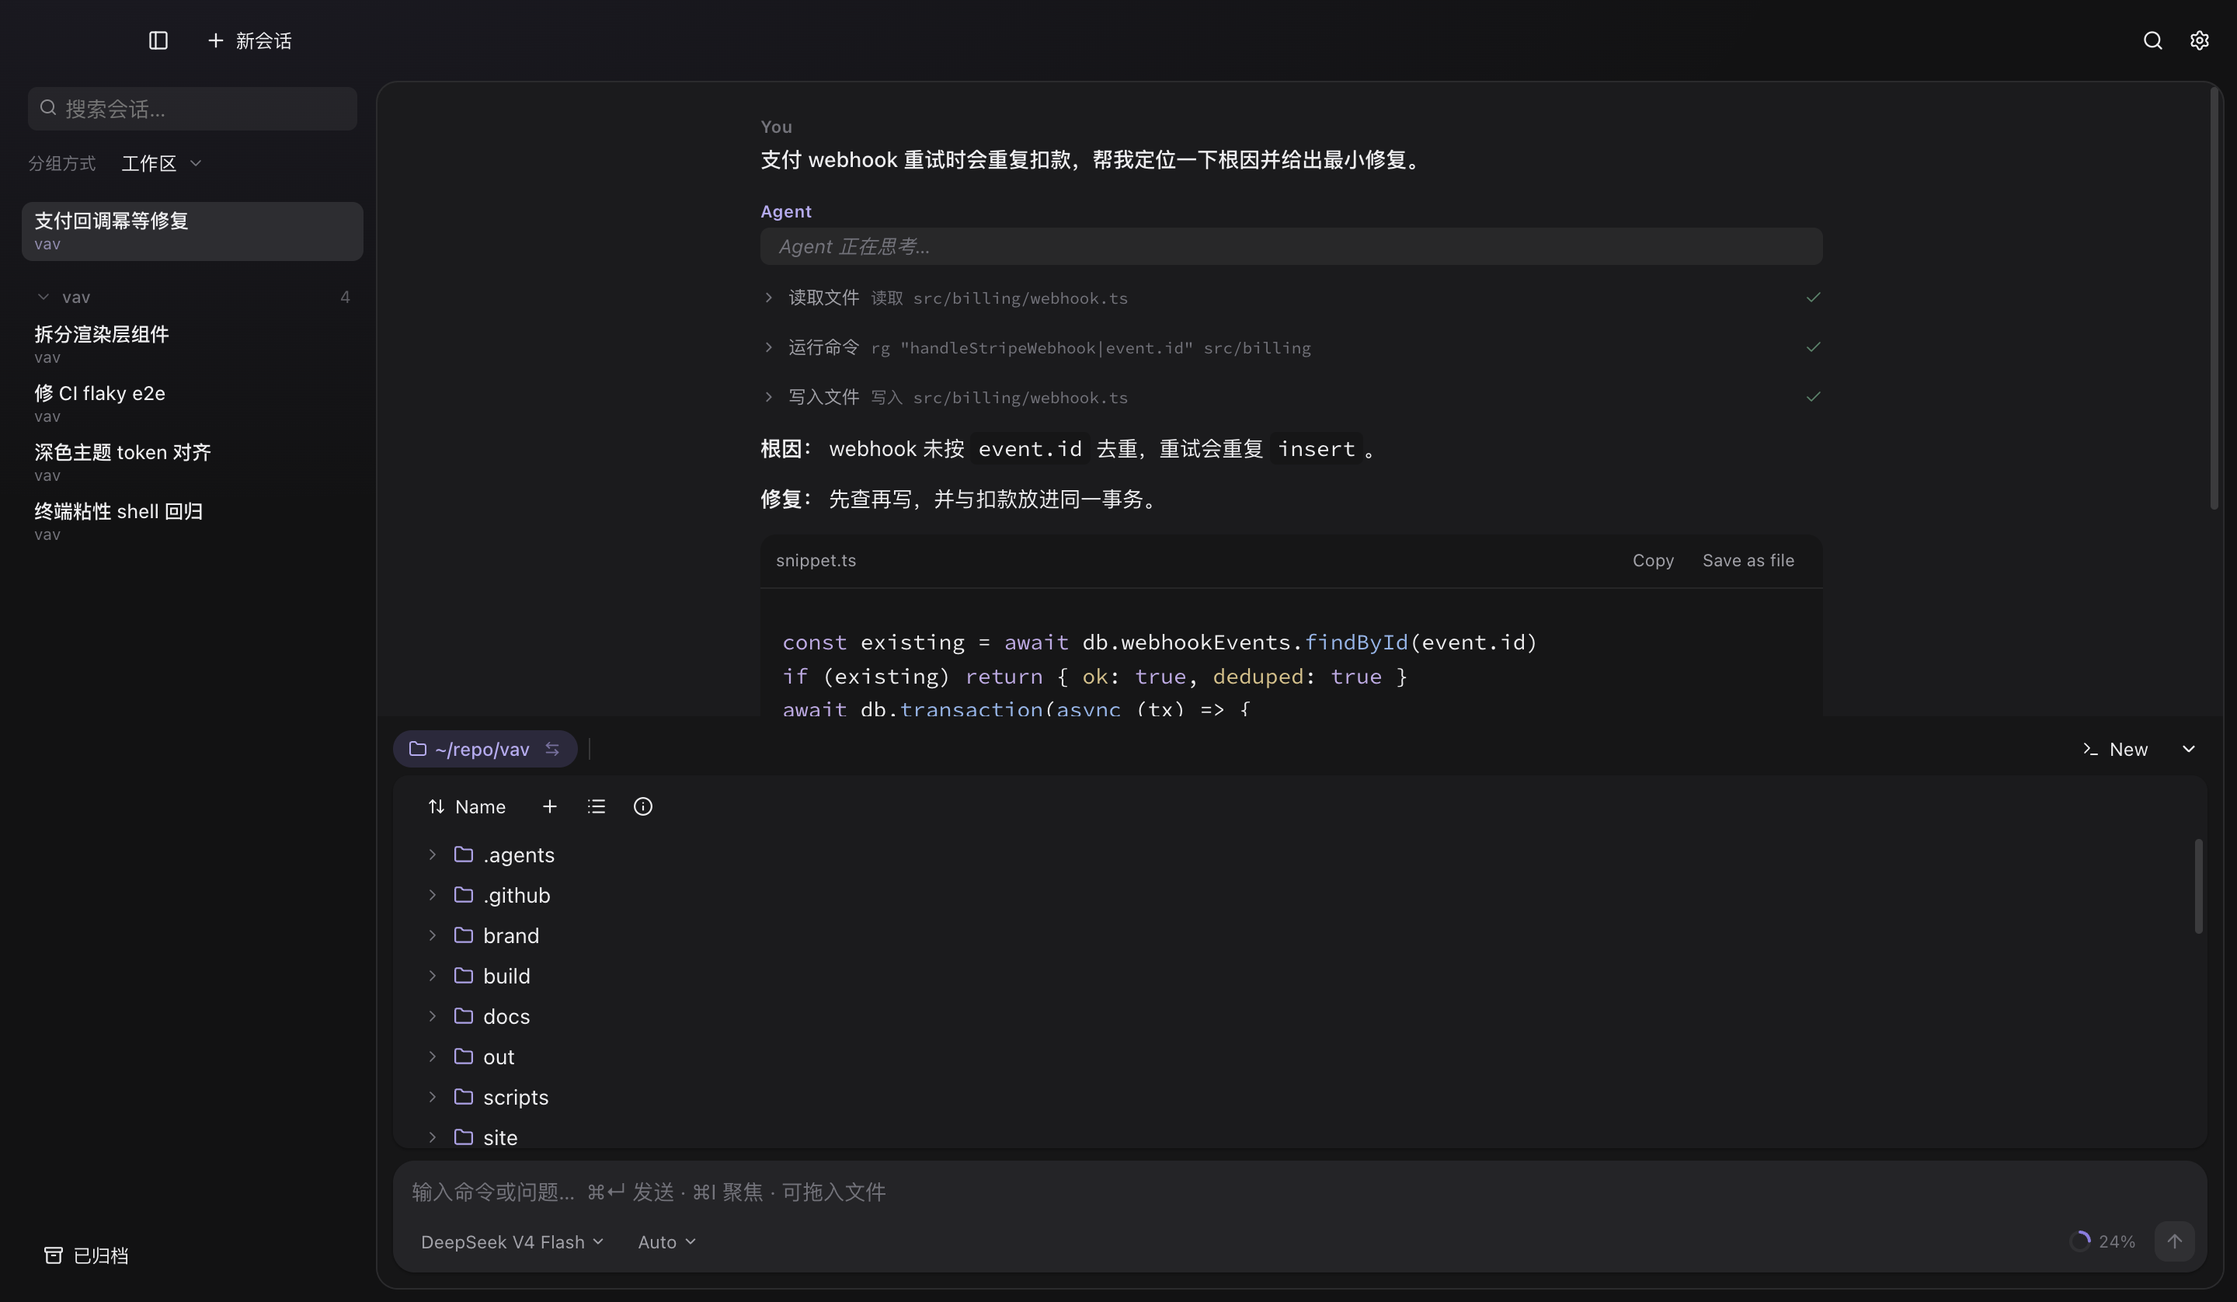
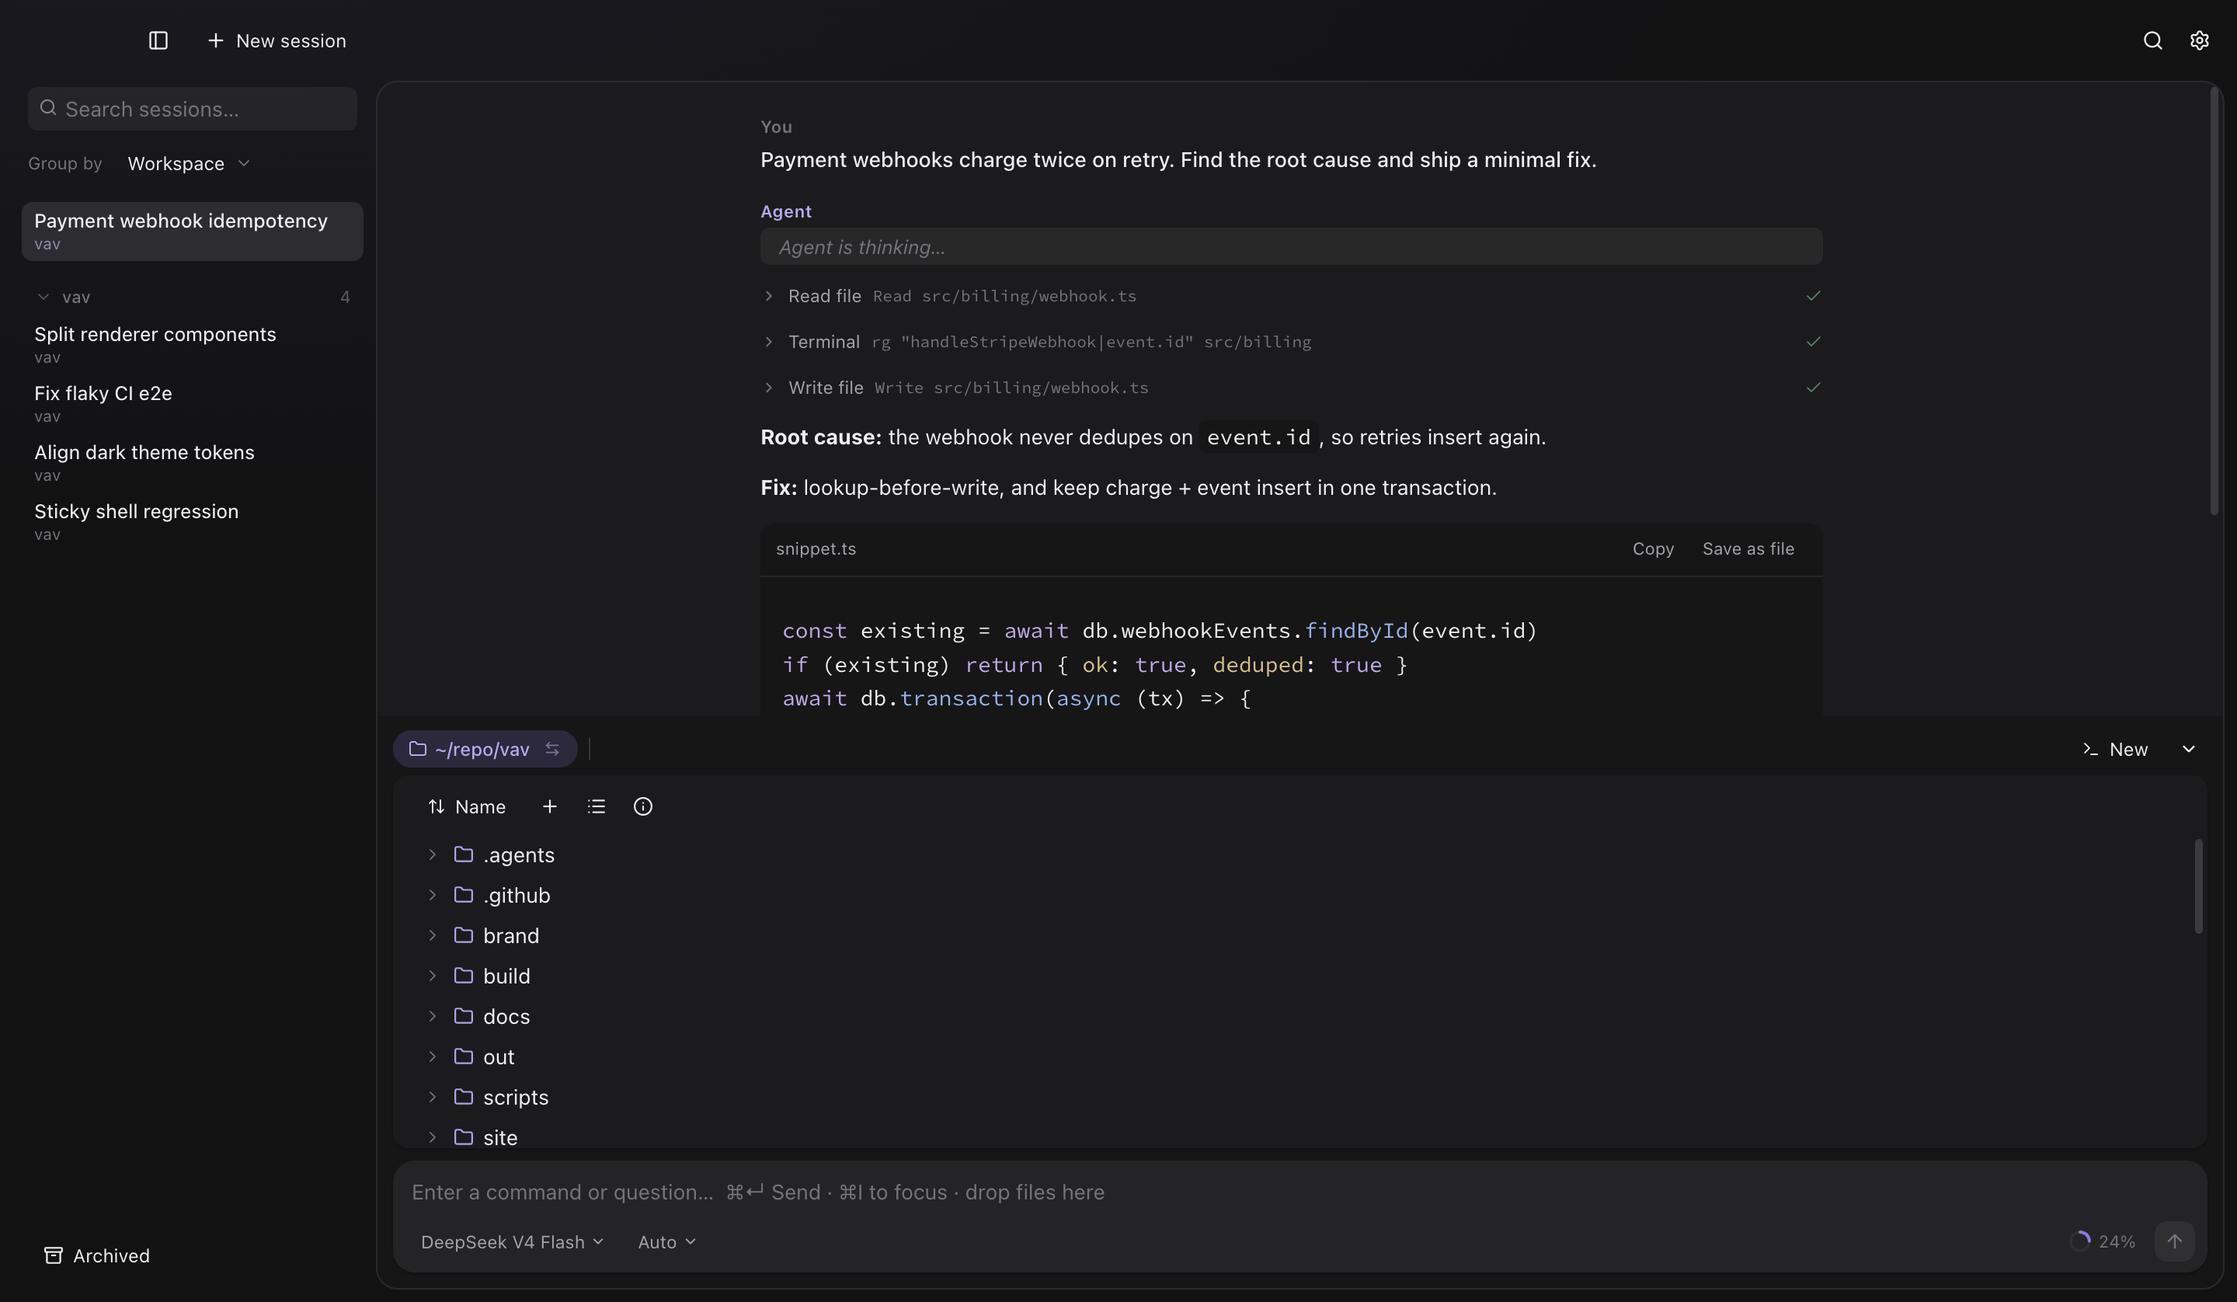
Make the marketing site bilingual and use an English product shot.
Seed the demo session in English, localize tool card labels for locale,
and add an EN/中文 toggle on the GitHub Pages landing page.

diff --git a/site/index.html b/site/index.html
@@ -1,17 +1,17 @@
 <!doctype html>
-<html lang="zh-CN">
+<html lang="en">
   <head>
     <meta charset="utf-8" />
     <meta name="viewport" content="width=device-width, initial-scale=1" />
-    <title>vav — 本机 AI 编程代理工作台</title>
+    <title>vav — local AI coding agent workstation</title>
     <meta
       name="description"
-      content="对话、文件树、真实终端，一个窗口。Agent 在你的项目里动手，数据留在本机。"
+      content="Chat, file tree, and a real terminal in one window. Watch the agent work in your project — data stays on your machine."
     />
     <meta property="og:title" content="vav" />
     <meta
       property="og:description"
-      content="本机 AI 编程代理工作台。看着 Agent 在你的项目里动手。"
+      content="Local AI coding agent workstation. Watch the agent work in your project."
     />
     <meta property="og:image" content="assets/screenshot.png" />
     <meta property="og:type" content="website" />
@@ -27,8 +27,12 @@
   <body>
     <header class="top">
       <nav class="nav">
-        <a href="#download">下载</a>
+        <a href="#download" data-i18n="nav.download">Download</a>
         <a href="https://github.com/21stware/vav">GitHub</a>
+        <div class="lang" role="group" aria-label="Language">
+          <button type="button" class="lang-btn" data-lang="en" aria-pressed="true">EN</button>
+          <button type="button" class="lang-btn" data-lang="zh" aria-pressed="false">中文</button>
+        </div>
       </nav>
     </header>
 
@@ -50,51 +54,71 @@
             <img class="brand-glyph" src="assets/wordmark-dark.png" alt="" width="48" height="48" />
             <span class="brand-name">vav</span>
           </p>
-          <h1 class="hero-title reveal delay-1">看着 Agent 在你的项目里动手</h1>
-          <p class="hero-lead reveal delay-2">
-            对话、文件树、真实终端，一个窗口。数据留在本机——除了发往你自己配置的模型接口。
+          <h1 class="hero-title reveal delay-1" data-i18n="hero.title">
+            Watch the agent work in your project
+          </h1>
+          <p class="hero-lead reveal delay-2" data-i18n="hero.lead">
+            Chat, file tree, and a real terminal — one window. Data stays on your machine, except
+            calls to the model endpoint you configure.
           </p>
           <div class="hero-cta reveal delay-3">
-            <a class="btn primary" href="#download">下载</a>
-            <a class="btn ghost" href="https://github.com/21stware/vav">源码</a>
+            <a class="btn primary" href="#download" data-i18n="hero.ctaDownload">Download</a>
+            <a class="btn ghost" href="https://github.com/21stware/vav" data-i18n="hero.ctaSource"
+              >Source</a
+            >
           </div>
         </div>
       </section>
 
       <section class="band" id="product">
-        <h2 class="band-title reveal">一个窗口，三件事</h2>
-        <p class="band-lead reveal delay-1">
-          Agent 不是在描述它做了什么——你在右边直接看着它 <code>cd</code>、跑测试、写文件。
+        <h2 class="band-title reveal" data-i18n="product.title">One window, three surfaces</h2>
+        <p class="band-lead reveal delay-1" data-i18n-html="product.lead">
+          The agent isn’t narrating what it did — you watch it <code>cd</code>, run tests, and write
+          files on the right.
         </p>
         <ul class="pillars">
           <li class="pillar reveal">
-            <span class="pillar-label">对话</span>
-            <p>流式回合、工具卡片、分支重试，上下文用量一目了然。</p>
+            <span class="pillar-label" data-i18n="product.chatLabel">Chat</span>
+            <p data-i18n="product.chatBody">
+              Streaming turns, tool cards, branch retries, and clear context usage.
+            </p>
           </li>
           <li class="pillar reveal delay-1">
-            <span class="pillar-label">文件</span>
-            <p>按需展开的工作区树，agent 改动高亮，空格 Quick Look。</p>
+            <span class="pillar-label" data-i18n="product.filesLabel">Files</span>
+            <p data-i18n="product.filesBody">
+              On-demand workspace tree, agent edits highlighted, spacebar Quick Look.
+            </p>
           </li>
           <li class="pillar reveal delay-2">
-            <span class="pillar-label">终端</span>
-            <p>真实 PTY。粘性 shell 里，<code>cd</code> 与环境变量会留下来。</p>
+            <span class="pillar-label" data-i18n="product.termLabel">Terminal</span>
+            <p data-i18n-html="product.termBody">
+              Real PTY. In the sticky shell, <code>cd</code> and env vars stick around.
+            </p>
           </li>
         </ul>
       </section>
 
       <section class="band download" id="download">
-        <h2 class="band-title reveal">下载</h2>
-        <p class="band-lead reveal delay-1">
-          从 GitHub Releases 获取构建。未代码签名，首次打开需按说明放行。
+        <h2 class="band-title reveal" data-i18n="download.title">Download</h2>
+        <p class="band-lead reveal delay-1" data-i18n="download.lead">
+          Get builds from GitHub Releases. Unsigned — follow the first-run notes to open them.
         </p>
         <div class="download-row reveal delay-2">
           <a class="btn primary" href="https://github.com/21stware/vav/releases/latest"
             >Releases · macOS / Windows</a
           >
-          <a class="btn ghost" href="https://github.com/21stware/vav#安装">安装说明</a>
+          <a
+            class="btn ghost"
+            href="https://github.com/21stware/vav#安装"
+            data-i18n="download.install"
+            data-i18n-href-en="https://github.com/21stware/vav#install"
+            data-i18n-href-zh="https://github.com/21stware/vav#安装"
+            >Install notes</a
+          >
         </div>
-        <p class="tiny reveal delay-3">
-          终端里可用 <code>vav .</code> 打开当前目录会话（设置 → vav 命令）。
+        <p class="tiny reveal delay-3" data-i18n-html="download.cli">
+          From a terminal, <code>vav .</code> opens a new session in the current directory (Settings
+          → vav command).
         </p>
       </section>
     </main>
@@ -104,10 +128,10 @@
         <span class="brand-name sm">vav</span>
         <span>21stware</span>
       </div>
-      <p class="foot-note">
-        非商用许可见
+      <p class="foot-note" data-i18n-html="footer.note">
+        Noncommercial license:
         <a href="https://github.com/21stware/vav/blob/main/LICENSE">LICENSE</a>
-        · 商用授权
+        · Commercial licensing
         <a href="mailto:licensing@21stware.com">licensing@21stware.com</a>
       </p>
     </footer>

diff --git a/site/script.js b/site/script.js
@@ -1,4 +1,128 @@
-(() => {
+;(() => {
+  const catalogs = {
+    en: {
+      'meta.title': 'vav — local AI coding agent workstation',
+      'meta.description':
+        'Chat, file tree, and a real terminal in one window. Watch the agent work in your project — data stays on your machine.',
+      'nav.download': 'Download',
+      'hero.title': 'Watch the agent work in your project',
+      'hero.lead':
+        'Chat, file tree, and a real terminal — one window. Data stays on your machine, except calls to the model endpoint you configure.',
+      'hero.ctaDownload': 'Download',
+      'hero.ctaSource': 'Source',
+      'product.title': 'One window, three surfaces',
+      'product.lead':
+        'The agent isn’t narrating what it did — you watch it <code>cd</code>, run tests, and write files on the right.',
+      'product.chatLabel': 'Chat',
+      'product.chatBody': 'Streaming turns, tool cards, branch retries, and clear context usage.',
+      'product.filesLabel': 'Files',
+      'product.filesBody': 'On-demand workspace tree, agent edits highlighted, spacebar Quick Look.',
+      'product.termLabel': 'Terminal',
+      'product.termBody':
+        'Real PTY. In the sticky shell, <code>cd</code> and env vars stick around.',
+      'download.title': 'Download',
+      'download.lead':
+        'Get builds from GitHub Releases. Unsigned — follow the first-run notes to open them.',
+      'download.install': 'Install notes',
+      'download.cli':
+        'From a terminal, <code>vav .</code> opens a new session in the current directory (Settings → vav command).',
+      'footer.note':
+        'Noncommercial license: <a href="https://github.com/21stware/vav/blob/main/LICENSE">LICENSE</a> · Commercial licensing <a href="mailto:licensing@21stware.com">licensing@21stware.com</a>'
+    },
+    zh: {
+      'meta.title': 'vav — 本机 AI 编程代理工作台',
+      'meta.description':
+        '对话、文件树、真实终端，一个窗口。看着 Agent 在你的项目里动手——数据留在本机。',
+      'nav.download': '下载',
+      'hero.title': '看着 Agent 在你的项目里动手',
+      'hero.lead':
+        '对话、文件树、真实终端，一个窗口。数据留在本机——除了发往你自己配置的模型接口。',
+      'hero.ctaDownload': '下载',
+      'hero.ctaSource': '源码',
+      'product.title': '一个窗口，三件事',
+      'product.lead':
+        'Agent 不是在描述它做了什么——你在右边直接看着它 <code>cd</code>、跑测试、写文件。',
+      'product.chatLabel': '对话',
+      'product.chatBody': '流式回合、工具卡片、分支重试，上下文用量一目了然。',
+      'product.filesLabel': '文件',
+      'product.filesBody': '按需展开的工作区树，agent 改动高亮，空格 Quick Look。',
+      'product.termLabel': '终端',
+      'product.termBody': '真实 PTY。粘性 shell 里，<code>cd</code> 与环境变量会留下来。',
+      'download.title': '下载',
+      'download.lead': '从 GitHub Releases 获取构建。未代码签名，首次打开需按说明放行。',
+      'download.install': '安装说明',
+      'download.cli':
+        '终端里可用 <code>vav .</code> 打开当前目录会话（设置 → vav 命令）。',
+      'footer.note':
+        '非商用许可见 <a href="https://github.com/21stware/vav/blob/main/LICENSE">LICENSE</a> · 商用授权 <a href="mailto:licensing@21stware.com">licensing@21stware.com</a>'
+    }
+  }
+
+  const KEY = 'vav.site.lang'
+
+  function detectLang() {
+    try {
+      const saved = localStorage.getItem(KEY)
+      if (saved === 'en' || saved === 'zh') return saved
+    } catch {
+      // ignore
+    }
+    const nav = (navigator.language || 'en').toLowerCase()
+    return nav.startsWith('zh') ? 'zh' : 'en'
+  }
+
+  function applyLang(lang) {
+    const catalog = catalogs[lang] || catalogs.en
+    document.documentElement.lang = lang === 'zh' ? 'zh-CN' : 'en'
+
+    document.querySelectorAll('[data-i18n]').forEach((el) => {
+      const key = el.getAttribute('data-i18n')
+      const value = catalog[key]
+      if (value != null) el.textContent = value
+    })
+
+    document.querySelectorAll('[data-i18n-html]').forEach((el) => {
+      const key = el.getAttribute('data-i18n-html')
+      const value = catalog[key]
+      if (value != null) el.innerHTML = value
+    })
+
+    document.querySelectorAll('[data-i18n-href-en]').forEach((el) => {
+      const href = el.getAttribute(lang === 'zh' ? 'data-i18n-href-zh' : 'data-i18n-href-en')
+      if (href) el.setAttribute('href', href)
+    })
+
+    const title = catalog['meta.title']
+    if (title) document.title = title
+    const description = catalog['meta.description']
+    const meta = document.querySelector('meta[name="description"]')
+    if (meta && description) meta.setAttribute('content', description)
+    const og = document.querySelector('meta[property="og:description"]')
+    if (og && description) og.setAttribute('content', description)
+
+    document.querySelectorAll('.lang-btn').forEach((btn) => {
+      const active = btn.getAttribute('data-lang') === lang
+      btn.setAttribute('aria-pressed', active ? 'true' : 'false')
+      btn.classList.toggle('is-active', active)
+    })
+
+    try {
+      localStorage.setItem(KEY, lang)
+    } catch {
+      // ignore
+    }
+  }
+
+  const lang = detectLang()
+  applyLang(lang)
+
+  document.querySelectorAll('.lang-btn').forEach((btn) => {
+    btn.addEventListener('click', () => {
+      const next = btn.getAttribute('data-lang')
+      if (next === 'en' || next === 'zh') applyLang(next)
+    })
+  })
+
   const reduce = window.matchMedia('(prefers-reduced-motion: reduce)').matches
   const nodes = document.querySelectorAll('.reveal')
 

diff --git a/src/renderer/src/components/ToolCard.tsx b/src/renderer/src/components/ToolCard.tsx
@@ -1,9 +1,24 @@
 import { memo, useMemo, useState } from 'react'
 import { Check, ChevronRight, CircleAlert, Loader2 } from 'lucide-react'
 import { normalizeAskQuestions, parseToolInput } from '@shared/askPlan'
-import { TOOL_LABELS, type AskQuestion, type ToolCallBlock } from '@shared/types'
+import type { MessageKey } from '@shared/i18n'
+import { TOOL_LABELS, type AskQuestion, type ToolCallBlock, type ToolName } from '@shared/types'
 import { useSessionStore } from '../state/sessionStore'
 import { useT, tt } from '../i18n/useT'
+
+const TOOL_NAME_KEYS: Partial<Record<ToolName, MessageKey>> = {
+  terminal: 'tool.shell',
+  fs_read: 'tool.read',
+  fs_write: 'tool.write',
+  fs_list: 'tool.list',
+  ask_user_question: 'tool.ask',
+  request: 'tool.ask'
+}
+
+function localizedToolName(tool: ToolName, t: ReturnType<typeof useT>): string {
+  const key = TOOL_NAME_KEYS[tool]
+  return key ? t(key) : (TOOL_LABELS[tool] ?? tool)
+}
 import { ToolDetail } from './ToolDetail'
 import { Button, InlineAlert } from './ui'
 
@@ -44,6 +59,7 @@ export const ToolCard = memo(function ToolCard({
 }: {
   block: ToolCallBlock
 }): React.JSX.Element {
+  const t = useT()
   const fireAndForget = isFireAndForget(block)
   const [expanded, setExpanded] = useState(() => defaultExpanded(block))
   const isInteractive = block.tool === 'request' || block.tool === 'ask_user_question'
@@ -51,6 +67,7 @@ export const ToolCard = memo(function ToolCard({
     block.status === 'pending' && !!block.choices?.length && !isInteractive
 
   const headline = useMemo(() => summaryFor(block), [block])
+  const toolName = localizedToolName(block.tool, t)
 
   // Plan lives as a tools-panel banner, not in the transcript stream.
   if (block.tool === 'plan') {
@@ -89,7 +106,7 @@ export const ToolCard = memo(function ToolCard({
         }}
       >
         {canToggle ? <ChevronRight className="tool-chevron" size={11} /> : <span className="tool-chevron-spacer" />}
-        <span className="tool-name">{TOOL_LABELS[block.tool] ?? block.tool}</span>
+        <span className="tool-name">{toolName}</span>
         <span className="tool-summary" title={headline}>
           {truncate(headline, SUMMARY_MAX)}
         </span>
@@ -174,7 +191,7 @@ function ApprovalCard({ block }: { block: ToolCallBlock }): React.JSX.Element {
   const answerTool = useSessionStore((s) => s.answerTool)
   const [approve = t('common.approve'), deny = t('common.deny')] = block.choices ?? []
   const lines = (block.summary || '').split('\n')
-  const toolLabel = TOOL_LABELS[block.tool] ?? block.tool
+  const toolLabel = localizedToolName(block.tool, t)
   const headline = lines[0] || t('approval.title', { name: toolLabel })
   const editLabel = t('tool.detail.approvalEdit')
   const editable = Boolean(block.askTitle?.length || headline.includes(editLabel))

diff --git a/site/styles.css b/site/styles.css
@@ -83,6 +83,7 @@ code {
 
 .nav {
   display: flex;
+  align-items: center;
   gap: 22px;
   font-size: 13px;
   font-weight: 500;
@@ -95,6 +96,39 @@ code {
 }
 
 .nav a:hover {
+  color: var(--ink);
+}
+
+.lang {
+  display: inline-flex;
+  align-items: center;
+  gap: 2px;
+  padding: 2px;
+  border: 1px solid var(--line);
+  border-radius: 8px;
+  background: rgba(12, 11, 10, 0.35);
+}
+
+.lang-btn {
+  margin: 0;
+  padding: 4px 8px;
+  border: 0;
+  border-radius: 6px;
+  background: transparent;
+  color: var(--ink-faint);
+  font: inherit;
+  font-size: 11px;
+  font-weight: 600;
+  letter-spacing: 0.04em;
+  cursor: default;
+}
+
+.lang-btn:hover {
+  color: var(--ink);
+}
+
+.lang-btn.is-active {
+  background: rgba(244, 239, 232, 0.1);
   color: var(--ink);
 }
 
